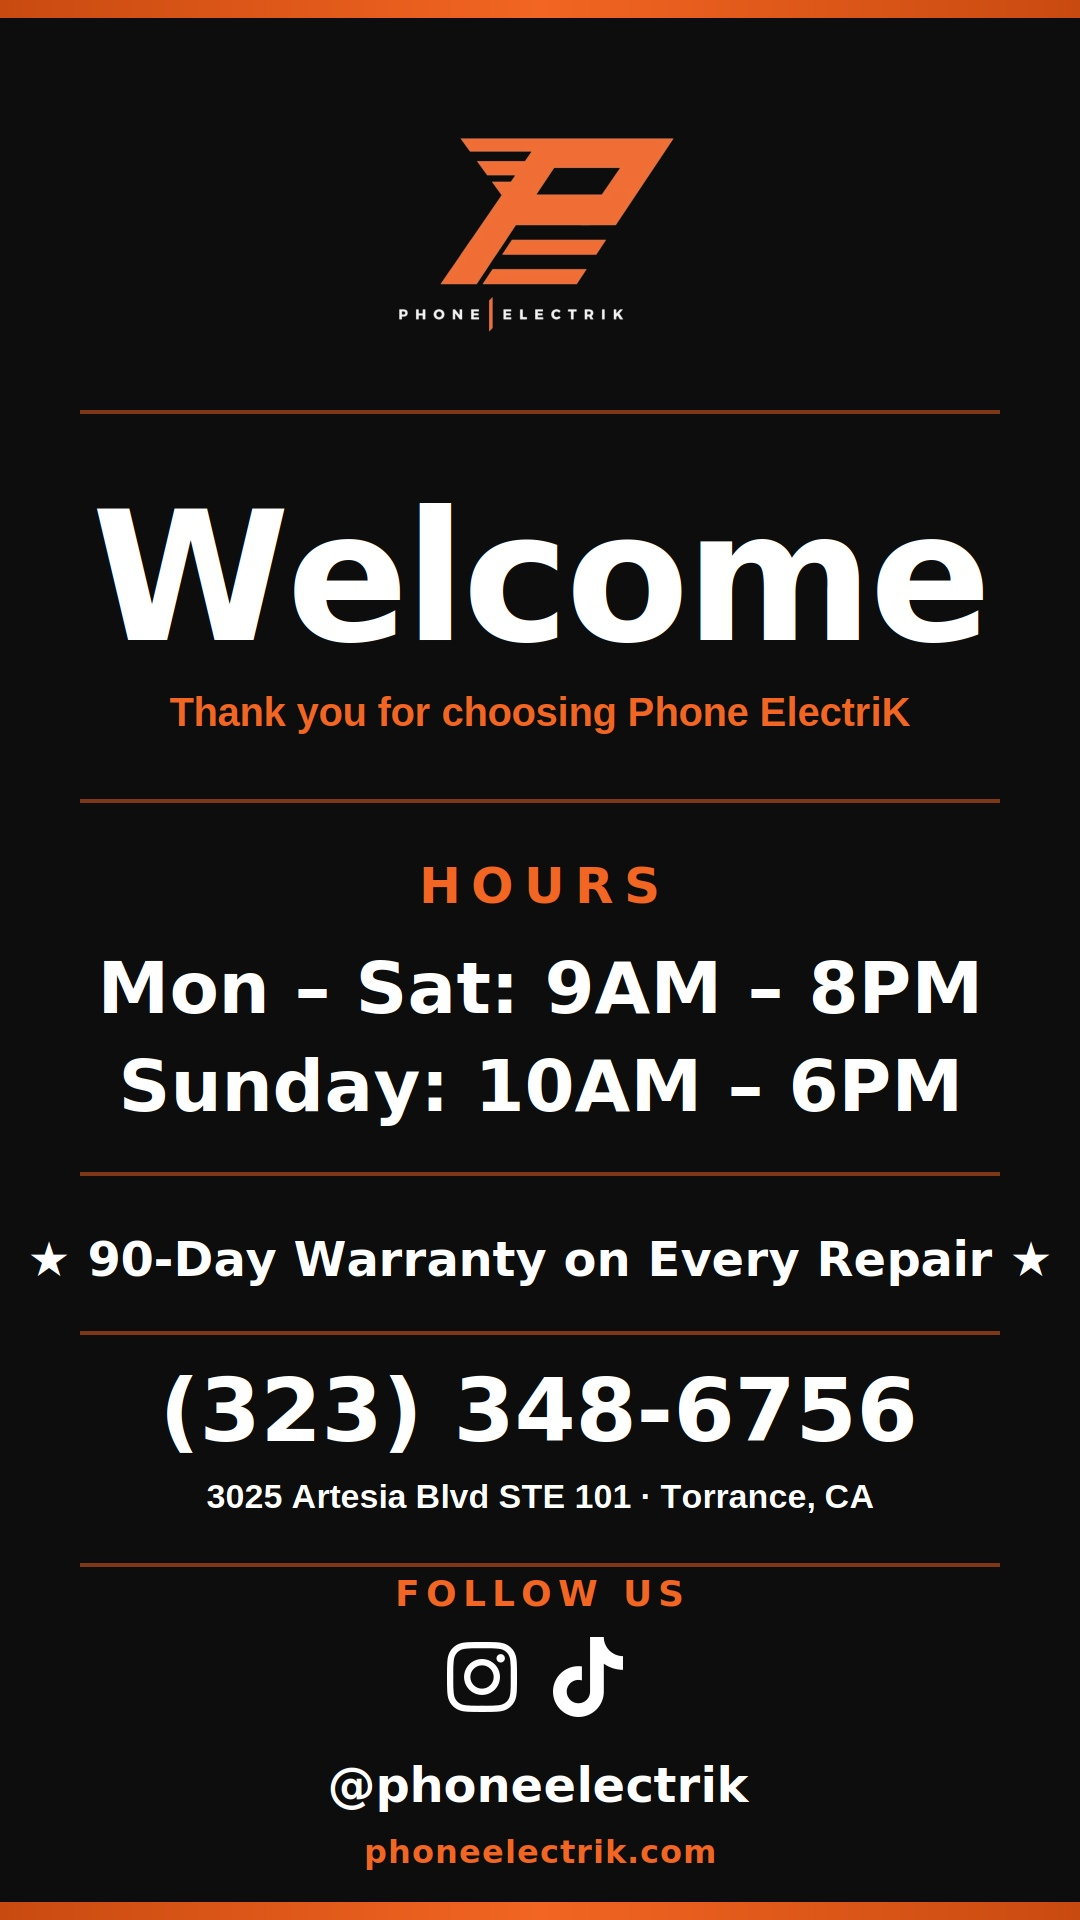
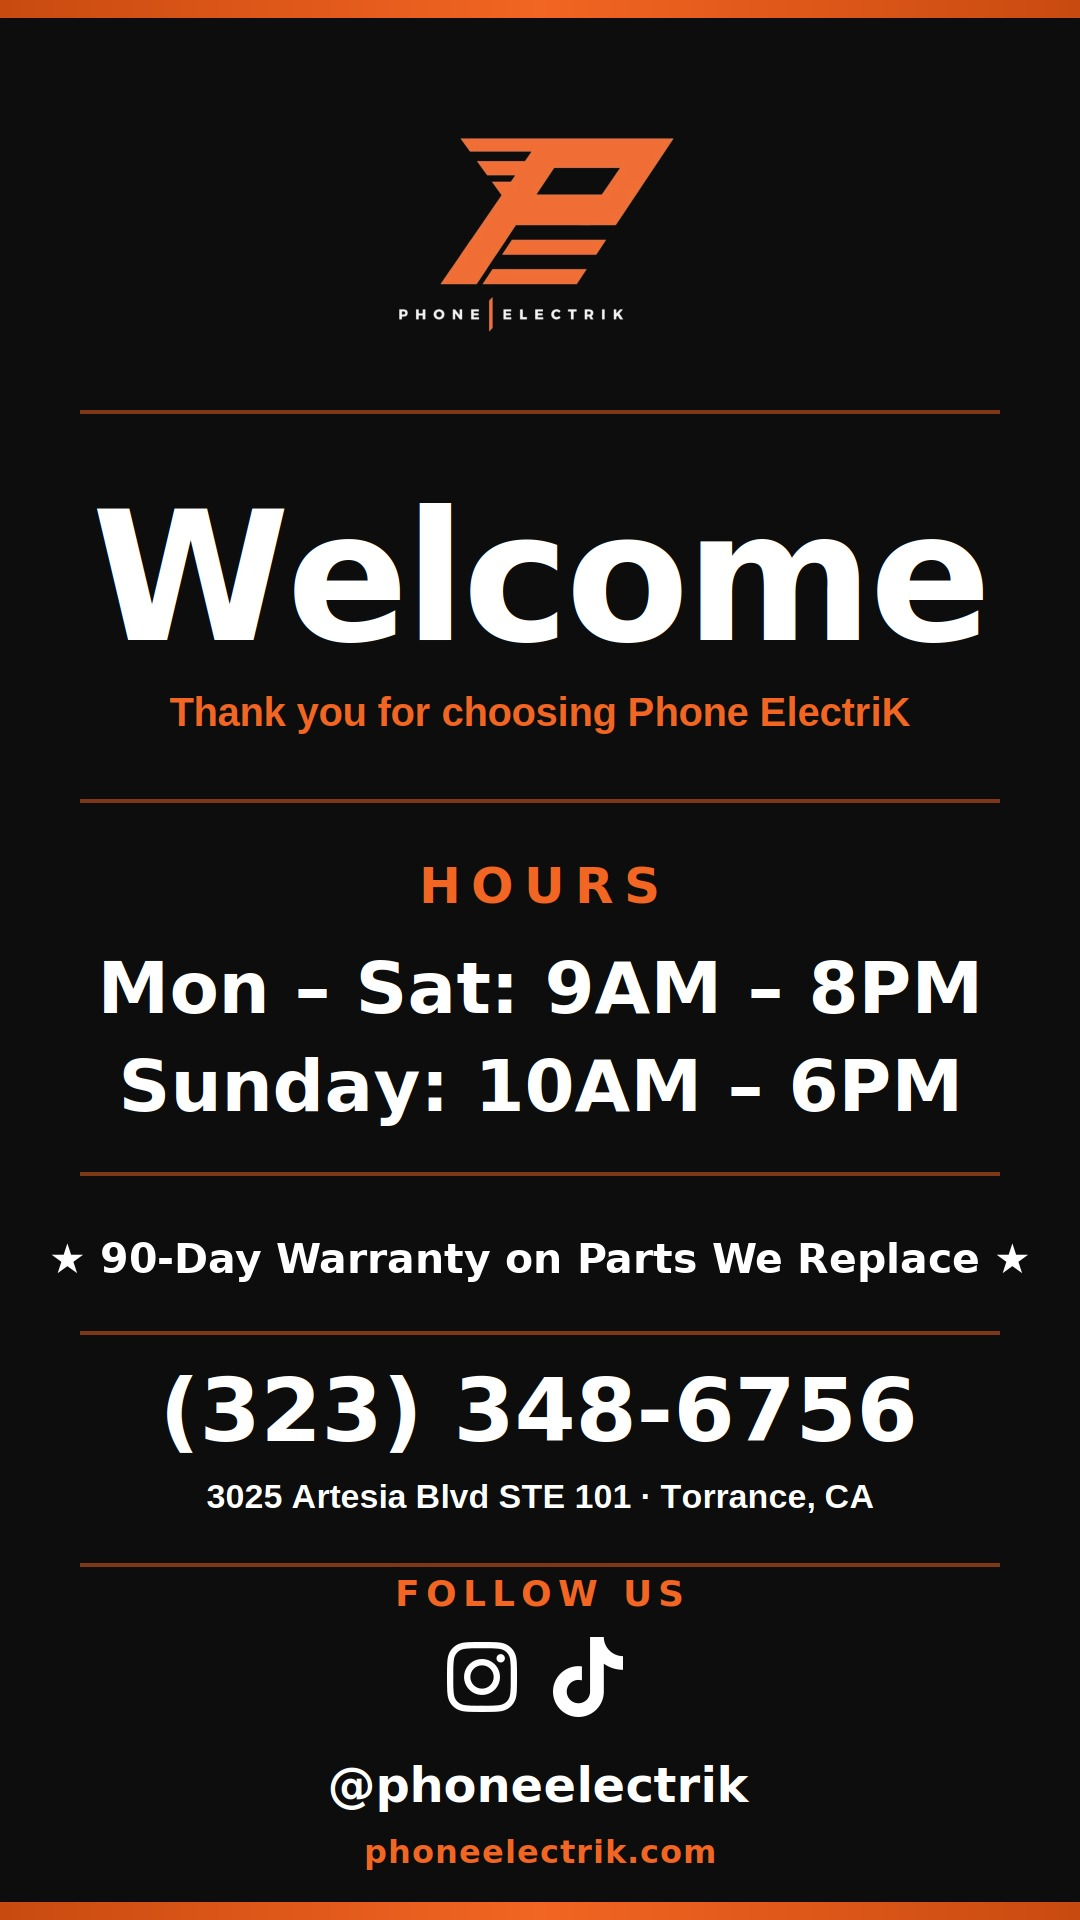
Warranty wording: 90-day warranty on parts we replace
- tv-poster.png/.jpg: replace only the warranty line (rows 1239-1285)
  with "90-Day Warranty on Parts We Replace" in the same font; the rest
  of the poster is byte-identical. tv-poster.svg text updated to match.
- slide-fix.html: "90-DAY WARRANTY" + "on parts we replace".
Videos are rebuilt in the next commit.

Claude-Session: https://claude.ai/code/session_01RRXzKg4NMVpHLscCANagc8

Changed region(s): [[0.1833, 0.625, 0.9167, 0.6875], [0.0306, 0.625, 0.1528, 0.6875], [0.9472, 0.625, 0.9778, 0.6875]]

diff --git a/usb-sign/slide-fix.html b/usb-sign/slide-fix.html
@@ -6,7 +6,7 @@
 <title>Phone ElectriK — Fixed Fast (TV slide)</title>
 <!-- Portrait 1080x1920 slide for the TV loop, rendered by build.py.
      Wording from index.html ("Most Common Repairs", "Most repairs done while
-     you wait", "Every repair backed by a 90-day warranty"). -->
+     you wait", "90-day warranty on parts we replace"). -->
 <style>
   *{margin:0;padding:0;box-sizing:border-box}
   html,body{width:1080px;height:1920px;overflow:hidden;background:#000}
@@ -26,6 +26,7 @@
   .band b{display:block;font-family:"Inter Display",Inter,sans-serif;font-weight:900;font-size:84px;line-height:1.02}
 
   .warranty{text-align:center;margin-top:90px;font-family:"Inter Display",Inter,sans-serif;font-weight:900;font-size:76px}
+  .wsub{text-align:center;margin-top:8px;font-size:46px;font-weight:800;color:#F26522}
   .devices{text-align:center;margin-top:30px;font-size:42px;font-weight:600;color:#d6d6d6}
 </style>
 </head>
@@ -42,6 +43,7 @@
   <div class="band"><b>MOST REPAIRS DONE<br>WHILE YOU WAIT</b></div>
 
   <div class="warranty">90-DAY WARRANTY</div>
+  <div class="wsub">on parts we replace</div>
   <div class="devices">iPhone · Samsung · iPad · MacBook &amp; more</div>
 
   <div class="bar bottom"></div>
